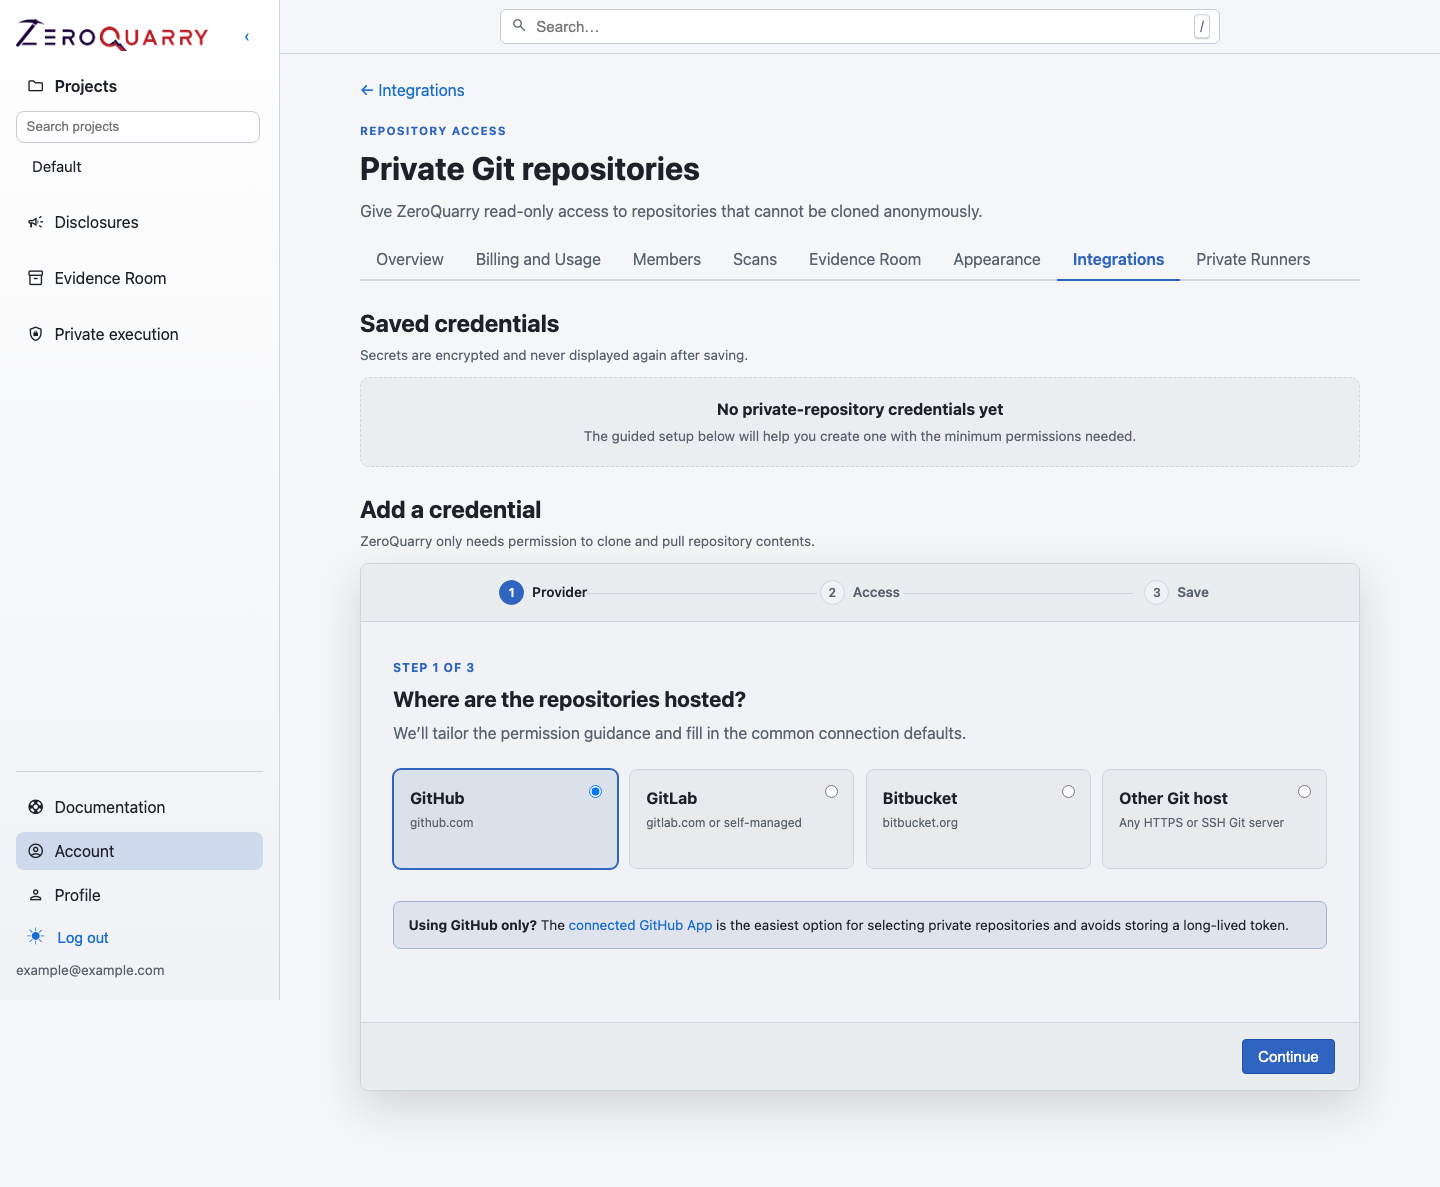
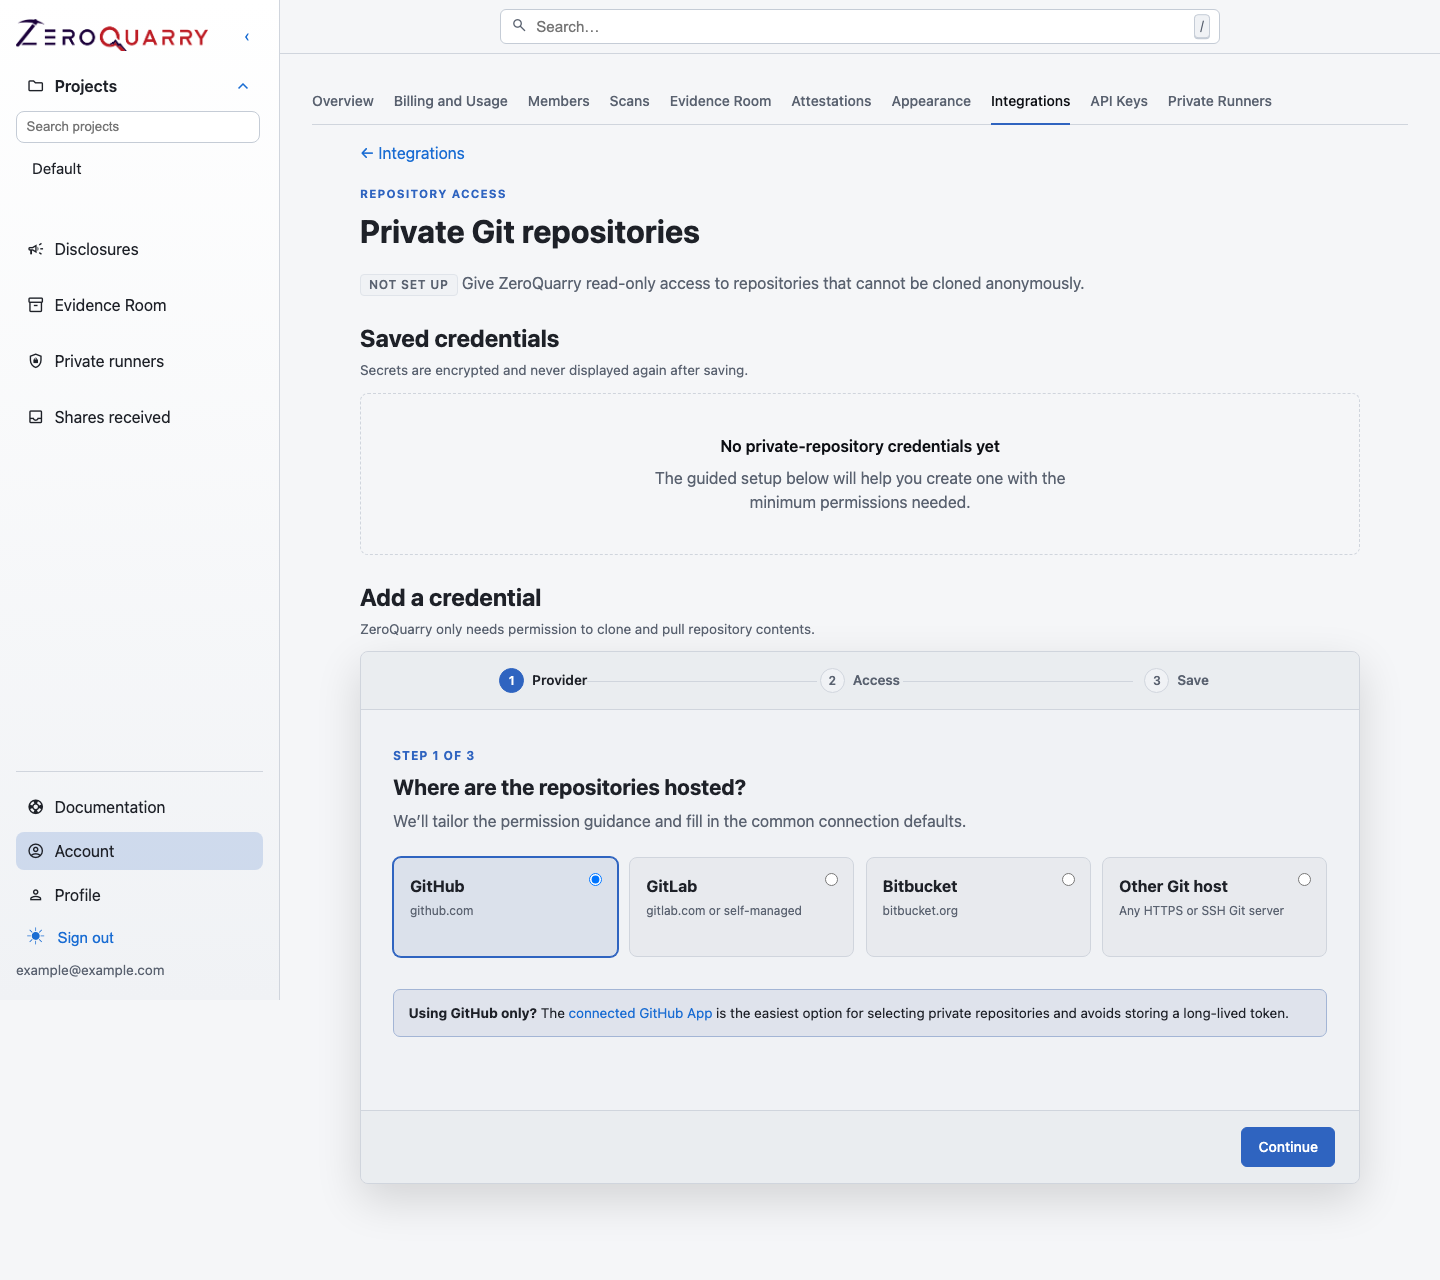
Recapture screenshots after UI changes; align docs vocabulary
The console moved project/report tabs to real paths
(/projects/<id>/scans, /reports/<id>/summary, ...) and renamed
"Private execution" to "Private runners", "E-mail" to "Email", and
"Log out" to "Sign out". Point the capture targets at the new URLs
and recapture all 29 screenshots from production.

- Align docs copy with the product: Email triage, Email tab,
  Private runners
- Document the new "Shares received" recipient inbox under Secure
  sharing
- Capture rig: a failed target no longer aborts the run, and a
  redirect to a different page fails the target instead of saving
  the wrong view

diff --git a/scripts/screenshots/config.js b/scripts/screenshots/config.js
@@ -71,7 +71,7 @@ const screenshotTargets = [
   },
   {
     name: "project-detail",
-    path: "/projects/{ZEROQUARRY_DOCS_PROJECT_ID}",
+    path: "/projects/{ZEROQUARRY_DOCS_PROJECT_ID}/scans",
     description: "Project detail with scan history, tags, and stats",
     requiredEnv: ["ZEROQUARRY_DOCS_PROJECT_ID"],
   },
@@ -82,7 +82,7 @@ const screenshotTargets = [
   },
   {
     name: "project-assets",
-    path: "/projects/{ZEROQUARRY_DOCS_PROJECT_ID}",
+    path: "/projects/{ZEROQUARRY_DOCS_PROJECT_ID}/assets",
     description: "Project Assets tab with the discovery map and asset inventory",
     // Needs a project whose profile exposes the asset library
     // (black/grey/white-box or custom). Set ZEROQUARRY_DOCS_ASSET_LIBRARY=1
@@ -111,15 +111,9 @@ const screenshotTargets = [
   },
   {
     name: "project-execution-environments",
-    path: "/projects/{ZEROQUARRY_DOCS_PROJECT_ID}",
+    path: "/projects/{ZEROQUARRY_DOCS_PROJECT_ID}/settings",
     description: "Project allowlist and default for cloud and private execution environments",
     requiredEnv: ["ZEROQUARRY_DOCS_PROJECT_ID"],
-    prepare: async (page) => {
-      await page.locator('button.project-tab[data-tab="settings"]').click();
-      await page
-        .locator('[data-panel="settings"]')
-        .waitFor({ state: "visible" });
-    },
   },
   {
     name: "scan-new-picker",
@@ -225,7 +219,7 @@ const screenshotTargets = [
   },
   {
     name: "report-overview",
-    path: "/reports/{ZEROQUARRY_DOCS_SCAN_ID}/",
+    path: "/reports/{ZEROQUARRY_DOCS_SCAN_ID}/summary",
     description: "Report overview with findings, lineage, and review controls",
     requiredEnv: ["ZEROQUARRY_DOCS_SCAN_ID"],
   },
@@ -243,23 +237,16 @@ const screenshotTargets = [
   },
   {
     name: "finding-rechecks",
-    path: "/reports/{ZEROQUARRY_DOCS_RECHECK_SCAN_ID}/",
+    path: "/reports/{ZEROQUARRY_DOCS_RECHECK_SCAN_ID}/findings",
     description: "Explicit fixed, still-present, and inconclusive finding recheck outcomes",
     requiredEnv: ["ZEROQUARRY_DOCS_RECHECK_SCAN_ID"],
-    prepare: async (page) => {
-      await page.locator('button.report-tab[data-tab="findings"]').click();
-      await page
-        .locator('[data-panel="findings"]')
-        .waitFor({ state: "visible" });
-    },
   },
   {
     name: "scheduled-rescan",
-    path: "/reports/{ZEROQUARRY_DOCS_SCAN_ID}/",
+    path: "/reports/{ZEROQUARRY_DOCS_SCAN_ID}/rerun",
     description: "Scheduled rescan cadence and changed-code coverage controls",
     requiredEnv: ["ZEROQUARRY_DOCS_SCAN_ID"],
     prepare: async (page) => {
-      await page.locator('button.report-tab[data-tab="rerun"]').click();
       await page
         .locator('input[name="rescan_approach"][value="workflow2"]')
         .evaluate((input) => {
@@ -279,7 +266,7 @@ const screenshotTargets = [
   },
   {
     name: "finding-detail",
-    path: "/reports/{ZEROQUARRY_DOCS_SCAN_ID}/findings/{ZEROQUARRY_DOCS_FINDING_ID}",
+    path: "/reports/{ZEROQUARRY_DOCS_SCAN_ID}/findings/{ZEROQUARRY_DOCS_FINDING_ID}/summary",
     description: "Finding detail with evidence, PoC, review state, and follow-up actions",
     requiredEnv: ["ZEROQUARRY_DOCS_SCAN_ID", "ZEROQUARRY_DOCS_FINDING_ID"],
   },
